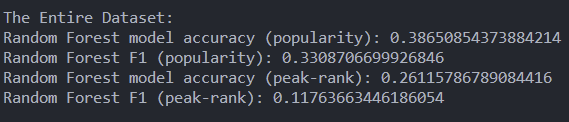
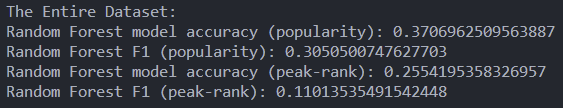
Harded coded optimizations added for RandomForest

diff --git a/modelgen.py b/modelgen.py
@@ -58,12 +58,131 @@ def randomForest(frames: dict(dict())) -> None:
         #                                 "model-rank": RandomForestClassifier(n_estimators=750, max_depth=15, min_samples_leaf=5).fit(frames[key]['data-train'], frames[key]['peak-rank-reduced-train'].values.ravel())}
 
         # with tuning
-        rf_RandomGridPop.fit(frames[key]['data-train'], frames[key]['popularity-reduced-train'].values.ravel())
-        rf_RandomGridRank.fit(frames[key]['data-train'], frames[key]['peak-rank-reduced-train'].values.ravel())
-        frames[key]['random-forest'] = {'model-pop': rf_RandomGridPop, 'model-rank' : rf_RandomGridRank}
-        print("pop rf grid best params: {}\n".format(rf_RandomGridPop.best_params_))
-        print("rank rf grid best params: {}\n".format(rf_RandomGridRank.best_params_))
+        # rf_RandomGridPop.fit(frames[key]['data-train'], frames[key]['popularity-reduced-train'].values.ravel())
+        # rf_RandomGridRank.fit(frames[key]['data-train'], frames[key]['peak-rank-reduced-train'].values.ravel())
+        # frames[key]['random-forest'] = {'model-pop': rf_RandomGridPop, 'model-rank' : rf_RandomGridRank}
+        # print("pop rf grid best params: {}\n".format(rf_RandomGridPop.best_params_))
+        # print("rank rf grid best params: {}\n".format(rf_RandomGridRank.best_params_))
 
+        # hard coded tuning
+        estimatorsP, max_depthP, mlsP, mssP, estimatorsR, mssR, mlsR, max_depthR = getBestParams(key)
+
+        frames[key]['random-forest'] = {'model-pop': RandomForestClassifier(n_estimators=estimatorsP, max_depth=max_depthP, min_samples_split=mssP, min_samples_leaf=mlsP).fit(frames[key]['data-train'], frames[key]['popularity-reduced-train'].values.ravel()),
+                                        "model-rank": RandomForestClassifier(n_estimators=estimatorsR, max_depth=max_depthR, min_samples_split=mssR, min_samples_leaf=mlsR).fit(frames[key]['data-train'], frames[key]['peak-rank-reduced-train'].values.ravel())}
+
+
+def getBestParams(key: str) -> tuple():
+    """Get the best parameters for random forest given a key
+
+    Args:
+        key (str): the key that defines what best parameters we chose
+
+    Returns:
+        tuple: a tuple of the best parameters
+    """
+
+    if key == 1950:
+        estimatorsP = 10
+        mssP = 10
+        mlsP = 1
+        max_depthP = 5
+
+        estimatorsR = 100
+        mssR = 5
+        mlsR = 2
+        max_depthR = 5
+    elif key == 1960:
+        estimatorsP = 10
+        mssP = 2
+        mlsP = 2
+        max_depthP = 5
+
+        estimatorsR = 300
+        mssR = 10
+        mlsR = 2
+        max_depthR = 5
+    elif key == 1970:
+        estimatorsP = 300
+        mssP = 10
+        mlsP = 2
+        max_depthP = 15
+
+        estimatorsR = 300
+        mssR = 2
+        mlsR = 2
+        max_depthR = 5
+    elif key == 1980:
+        estimatorsP = 300
+        mssP = 5
+        mlsP = 1
+        max_depthP = 5
+
+        estimatorsR = 300
+        mssR = 5
+        mlsR = 2
+        max_depthR = 5
+    elif key == 1990:
+        estimatorsP = 300
+        mssP = 2
+        mlsP = 2
+        max_depthP = 5
+
+        estimatorsR = 100
+        mssR = 10
+        mlsR = 2
+        max_depthR = 8
+    elif key == 2000:
+        estimatorsP = 100
+        mssP = 2
+        mlsP = 1
+        max_depthP = 8
+
+        estimatorsR = 500
+        mssR = 5
+        mlsR = 2
+        max_depthR = 5
+    elif key == 2010:
+        estimatorsP = 300
+        mssP = 10
+        mlsP = 1
+        max_depthP = 15
+
+        estimatorsR = 500
+        mssR = 10
+        mlsR = 2
+        max_depthR = 5
+    elif key == 2020:
+        estimatorsP = 800
+        mssP = 5
+        mlsP = 1
+        max_depthP = 15
+
+        estimatorsR = 300
+        mssR = 2
+        mlsR = 2
+        max_depthR = 8
+    elif key == "everything":
+        estimatorsP = 800
+        mssP = 2
+        mlsP = 1
+        max_depthP = 8
+
+        estimatorsR = 800
+        mssR = 10
+        mlsR = 1
+        max_depthR = 8
+    else:  # defaults
+        estimatorsP = 750
+        mssP = 5
+        mlsP = 5
+        max_depthP = 15
+
+        estimatorsR = 750
+        mssR = 5
+        mlsR = 5
+        max_depthR = 15
+
+    return estimatorsP, max_depthP, mlsP, mssP, estimatorsR, mssR, mlsR, max_depthR
  
 def knn(frames: dict(dict())) -> None:
     """Given a dictionary of dictionaries of dataframes,
